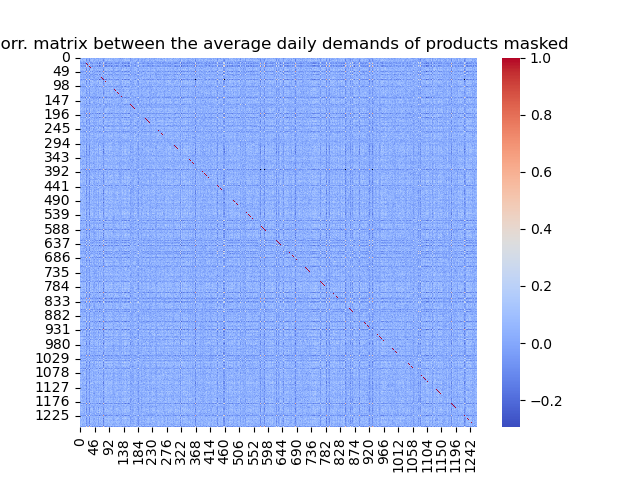
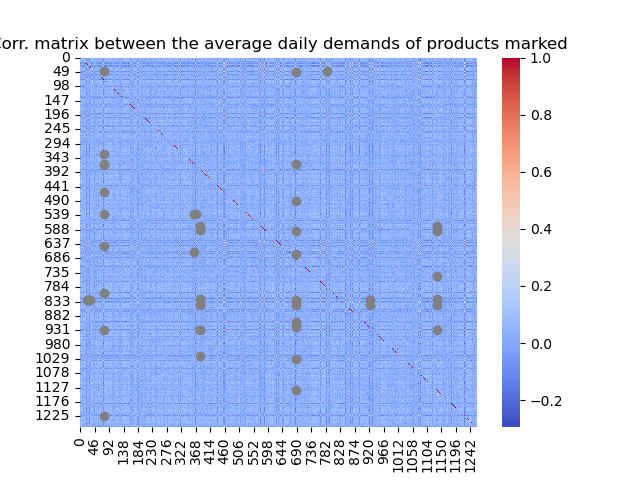
last fix to heuristics and added comments

diff --git a/final/belsimpel.py b/final/belsimpel.py
@@ -9,6 +9,7 @@ import matplotlib.pyplot as plt
 import seaborn as sns
 import datetime
 from gurobipy import Model, GRB, multidict, quicksum
+import math
 
 db = Db()
 graphs = Graphs()
@@ -16,7 +17,9 @@ index_name = "belsimpel"
 document_file_path = os.path.join(sys.path[0], "data_dapom.csv")
 buffer_size = 5000
 
+# connect to elastic
 es = db.connect()
+# import the data from the .csv file in needed
 db.create_index_and_documents(es, index_name, document_file_path, buffer_size)
 
 file_sizes = os.path.join(sys.path[0], "data_dapom_sizes.csv")
@@ -57,6 +60,7 @@ total_days = day_count["aggregations"]["unique_days_count"]["value"]
 # step 1.14
 daily_demand_per_product = np.zeros((len(df_products) + 1, total_days))
 
+# compute the daily demand per product 
 def compute_daily_demand_on_product_id(index, product_id):
 
     def add_daily_demand_per_product(product_id, day, amount_sold):
@@ -98,7 +102,6 @@ def compute_daily_demand_on_product_id(index, product_id):
     # 1.14: add the key (day) and doc_count (sold) to a destinct for the correlation matrix
     [add_daily_demand_per_product(product_id, day, amount_sold) for day, amount_sold in df_demand_per_product_per_day[["key","doc_count"]].to_numpy(dtype=int)]
 
-
 start_time = datetime.datetime.now()
 print("Compute basic stats of the daily demand for each of the", len(df_products), "unique products sold over", total_days, "days")
 print("Starting at", start_time)
@@ -106,14 +109,14 @@ print("please wait... I am computing")
 # use list comprension with an for faster iteration source: https://stackoverflow.com/questions/16476924/how-to-iterate-over-rows-in-a-dataframe-in-pandas 
 [compute_daily_demand_on_product_id(index, product_id) for index, product_id in zip(df_products.index, df_products["product_id"])]
 
+# compute the margins, product volume and average daily profit
 df_products["profit_margin"] = df_margins["margin"]
 df_products["product_volume_cm3"] = df_sizes["length"] * df_sizes["width"] * df_sizes["height"]
 df_products["average_daily_profit"] = df_products["average_daily_demand"] * df_products["profit_margin"]
 
+# create the error bar
 print("Plotting daily demand")
-
 df_error_bar = df_products[["product_id", "average_daily_demand", "std_average_daily_demand"]].sort_values(by="average_daily_demand", ascending=False)
-
 graphs.plot_error_bar(
     df_error_bar["product_id"], 
     df_error_bar["average_daily_demand"], 
@@ -125,7 +128,7 @@ graphs.plot_error_bar(
     "#B45C1F"
 )
 
-# TODO: set three classes of products based on the average daily profit (is this correct?)
+# plot the histogram of daily profits
 bins = np.histogram_bin_edges(df_products["average_daily_profit"], bins='auto') #Get de proper amount of bins https://numpy.org/doc/stable/reference/generated/numpy.histogram_bin_edges.html
 graphs.plot_hist(
     x_array=df_products["average_daily_profit"],
@@ -136,6 +139,7 @@ graphs.plot_hist(
     bins=bins
 )
 
+# plot the histogram of product volumes
 bins = np.histogram_bin_edges(df_products["product_volume_cm3"], bins="auto")
 graphs.plot_hist(
     x_array = df_products["product_volume_cm3"], 
@@ -165,10 +169,15 @@ of the product classes so that they are visible.
 # https://stackoverflow.com/questions/38936854/categorize-data-in-a-column-in-dataframe 
 # https://pandas.pydata.org/docs/reference/api/pandas.qcut.html
 print("Create product classes and plots")
+# cut the dataframe based on low to high average daily profit percentages (0%-50%, 50%-80%, 80%-100%)
 df_products["product_class"] = pd.qcut(df_products["average_daily_profit"], [0, .50, .80, 1.], labels=["50%", "80%", "100%"])
 df_low = df_products[df_products["product_class"].str.contains("50%")]
 df_medium = df_products[df_products["product_class"].str.contains("80%")]
 df_high = df_products[df_products["product_class"].str.contains("100%")]
+
+print("Amount of products in class 50%", len(df_low))
+print("Amount of products in class 30%", len(df_medium))
+print("Amount of products in class 20%", len(df_high))
 
 product_classes = ["last 50%", 'mid 30%', 'top 20%']
 dfs_product_classes = [df_low, df_medium, df_high]
@@ -194,23 +203,10 @@ boundary_avg_d_profits = [
     df_high["average_daily_profit"].max()
 ]
 
-# colors_based_avg_profit = ["#B45C1F" if avg in boundary_products else "#1F77B4" for avg in df_products_sorted_on_profit_desc["average_daily_profit"].to_list()]
-# boundary_products = df_products_sorted_on_profit_desc.loc[df_products_sorted_on_profit_desc["average_daily_profit"].isin(boundary_avg_d_profits)]["product_id"].to_list()
-
 x = np.arange(1, len(df_products_sorted_on_profit_desc) + 1) 
 y = df_products_sorted_on_profit_desc["average_daily_profit"]
 cmap = ["red" if avg in boundary_avg_d_profits else "#17becf" for avg in y]
-
 barlist = plt.bar(x, y, color=cmap, edgecolor=cmap, width=1.5)
-
-# for bp in boundary_products:
-#     #source: https://stackoverflow.com/questions/18973404/setting-different-bar-color-in-matplotlib-python
-#     # barlist[bp].set_capstyle("round")
-#     # barlist[bp].set_label("Product class boundaries")
-#     # barlist[bp].set_color("red")
-#     # barlist[bp].set_edgecolor("red")
-#     barlist[bp].set_alpha(1) 
-
 plt.xlabel("Products")
 plt.ylabel("Profits")
 plt.title("Average daily profits of each product")
@@ -239,16 +235,17 @@ df_stock = df_products[["product_id", "average_daily_demand", "std_average_daily
 df_stock = df_stock.assign(avg_daily_demand_repln_intv=replenishment_interval * df_stock["average_daily_demand"])
 df_stock = df_stock.assign(avg_std_daily_demand_repln_intv=np.sqrt(replenishment_interval * df_stock["std_average_daily_demand"]))
 
+# compute the base stock per product class 
 def compute_base_stock(index):
     product_class = df_stock.at[index, "product_class"]
     avg_daily_demand_repln_intv = df_stock.at[index, "avg_daily_demand_repln_intv"]
     avg_std_daily_demand_repln_intv = df_stock.at[index, "avg_std_daily_demand_repln_intv"]
     if product_class == "50%":
-        df_stock.at[index, "base_stock"] = avg_daily_demand_repln_intv + (low_50_z_score * avg_std_daily_demand_repln_intv)
+        df_stock.at[index, "base_stock"] = avg_daily_demand_repln_intv + (low_50_z_score * math.sqrt(avg_std_daily_demand_repln_intv))
     elif product_class == "80%":
-        df_stock.at[index, "base_stock"] = avg_daily_demand_repln_intv + (mid_30_z_score * avg_std_daily_demand_repln_intv)
+        df_stock.at[index, "base_stock"] = avg_daily_demand_repln_intv + (mid_30_z_score * math.sqrt(avg_std_daily_demand_repln_intv))
     elif product_class == "100%":
-        df_stock.at[index, "base_stock"] = avg_daily_demand_repln_intv + (top_20_z_score * avg_std_daily_demand_repln_intv)
+        df_stock.at[index, "base_stock"] = avg_daily_demand_repln_intv + (top_20_z_score * math.sqrt(avg_std_daily_demand_repln_intv))
 
 [compute_base_stock(index) for index in df_stock.index]
 
@@ -257,7 +254,6 @@ df_stock = df_stock.assign(pickup_boxes=np.ceil((df_stock["base_stock"] * df_sto
 
 bins = np.histogram_bin_edges(df_stock["pickup_boxes"], bins="auto")
 graphs.plot_hist(x_array=df_stock["pickup_boxes"], xlabel="Number of pickup boxes", ylabel="Amount of products", plot_title="Number of pick-up boxes required for each product", image_title="number_of_pickup_boxes", bins=bins)
-
 
 """
 Identify the product couples with highly correlated demands. 
@@ -288,6 +284,7 @@ plt.close()
 product_couples = []
 totalnr_of_highly_corr = 0
 #source: https://stackoverflow.com/questions/60162118/how-to-get-nth-max-correlation-coefficient-and-its-index-by-using-numpy
+# create product couples based on each specific product correlation 
 def create_product_couples(index, corr):
     global totalnr_of_highly_corr
     def is_first_product_a_higher_class(first_class_percentage : str, second_class_percentage : str):
@@ -295,33 +292,39 @@ def create_product_couples(index, corr):
         second_class = int(second_class_percentage.split("%")[0])
         if first_class > second_class: return True
         else: return False
-
+    # flatten the array
     flat = np.array(corr).flatten()
-    #get all highly correlated products
+    #get all highly correlated products 
     result = np.where(flat >= 0.6)[0] #to get the the "natural" answer of numpy.where, we have to do [0] source: https://stackoverflow.com/questions/50646102/what-is-the-purpose-of-numpy-where-returning-a-tuple
+    # check if there are highly correlated products indexes that are correlated to corr of the current product
     if len(result) > 1: 
         highly_correlated_indexes = np.array(result)
         totalnr_of_highly_corr = totalnr_of_highly_corr + len(highly_correlated_indexes)
-        highly_correlated_indexes = highly_correlated_indexes[highly_correlated_indexes != index] #This removes the product index that is correlated to itself (the perfect 1.0 index)
-        df_first_product = df_products.loc[df_products.index == index,:] 
+        highly_correlated_indexes = highly_correlated_indexes[highly_correlated_indexes != index] # This removes the product index that is correlated to itself (the perfect 1.0 index)
+        df_first_product = df_products.loc[df_products.index == index,:] # find the first product in df_products
         for correlated_index in highly_correlated_indexes: 
-            df_second_product = df_products.loc[df_products.index == correlated_index,:] 
+            df_second_product = df_products.loc[df_products.index == correlated_index,:] # find its pair in df_products
+            # if df_first_product is of an higher class append the product ids of itself and its pair. 
             if is_first_product_a_higher_class(df_first_product["product_class"].values[0], df_second_product["product_class"].values[0]):
-                corr_matrix[index, correlated_index] = np.nan
                 product_couples.append((df_first_product["product_id"].values[0], df_second_product["product_id"].values[0]))
 
+# loop over the correlation matrix and per iteration execute the create_product_couples() function  
 [create_product_couples(index, corr) for index, corr in enumerate(corr_matrix)]
 print("Found out of the", totalnr_of_highly_corr, "highly correlated products", len(product_couples), "product couples") 
 print(product_couples)
-print("Replot the correlation matrix masking the product couples")
+print("Replot the correlation matrix marking the product couples")
+
+# Replot the correlation matrix, but now with marked product pairs
 cmap = sns.color_palette("coolwarm", as_cmap=True)
-g = sns.heatmap(corr_matrix, cmap=cmap, cbar=True)
-g.set_facecolor('xkcd:black')
-plt.title("Corr. matrix between the average daily demands of products masked")
+sns.heatmap(corr_matrix, cmap=cmap, cbar=True)
+for couple in product_couples:
+    plt.scatter(x=couple[0], y=couple[1], color="grey")
+plt.title("Corr. matrix between the average daily demands of products marked")
 plt.savefig(os.path.join(sys.path[0], "plots", "corr_matrix_avg_daily_demand_masked.png"))
 plt.close()
 
 """
+Step 2 Optimization
 1. For  all methods,  the most  critical  parameter  will  be  the  average  daily  profit  loss  per  product—
 which will be realized in case the product cannot be stored in the current warehouse. Compute 
 this value for each product.  
@@ -338,8 +341,10 @@ average daily profit losses on a small table.
 print("Looking for the optimal product warehouse allocation, please wait...")
 pickup_boxes_theshold = 960
 current_pickup_boxes_in_storage = 0
-current_product_couples = product_couples.copy()
+# copy the list in order to not change the current product couples list
+current_product_couples = product_couples.copy() 
 
+# compute the profit loss per product based on product class
 def compute_profit_loss(index):
     product_class = df_products.at[index, "product_class"]
     average_daily_profit = df_products.at[index, "average_daily_profit"]
@@ -355,12 +360,15 @@ def compute_profit_loss(index):
 def get_product_couples_by_product_id(product_id : int):
     return [product_couples_by_id for product_couples_by_id in product_couples if product_couples_by_id[0] == product_id or product_couples_by_id[1] == product_id]
 
+# get the other couples id by 
+# example: if product_id = 1, product_couple=(1,2) returns couple_id = 2
 def get_other_couple_id(product_id : int, product_couple : tuple):
     index_current_couple = product_couple.index(product_id)
     if index_current_couple == 0:
         return product_couple[1]
     return product_couple[0]
 
+# check if there is enough storage in the current warehouse 
 def enough_storage(threshold, current_storage, product_pickup_boxes):
     if threshold - current_storage >= product_pickup_boxes:
         return True
@@ -369,30 +377,34 @@ def enough_storage(threshold, current_storage, product_pickup_boxes):
 df_products["pickup_boxes"] = df_stock["pickup_boxes"]
 [compute_profit_loss(index) for index in df_products.index]
 
-#Ranking 
+# Use pandas.rank to create an ranking based on an column 
 # https://vitalflux.com/ranking-algorithms-types-concepts-examples/#:~:text=A%20ranking%20algorithm%20is%20a,dataset%20according%20to%20some%20criterion.
 # https://dataindependent.com/pandas/pandas-rank-rank-your-data-pd-df-rank/
+# create an ratio by dividing the average daily profit loss column by pickup_boxes column, and convert the new column to absolute values 
 df_products["ratio"] = np.abs(df_products["average_daily_profit_loss"] / df_products["pickup_boxes"])
+# create two columns using pandas.rank, where the ranking is based on the average daily profit loss and ratio
 df_products["rank_by_profit_loss"] = df_products["average_daily_profit_loss"].rank(ascending=True, method="first") # ranking based on the highest profit loss (so this is the lowest negative number)
 df_products["rank_by_ratio"] = df_products["ratio"].rank(ascending=False, method="first")
 
+# sort the ranks in df_products into two new dataframes
 df_ranked_by_profit_loss = df_products.sort_values(by="rank_by_profit_loss")
 df_ranked_by_ratio = df_products.sort_values(by="rank_by_ratio")
 
+# initialize the warehouses for the first heuristic of ranking by profit loss
 df_current_warehouse = pd.DataFrame(columns=df_ranked_by_profit_loss.columns)
 df_rental_warehouse = pd.DataFrame(columns=df_ranked_by_profit_loss.columns)
 df_scenarios = pd.DataFrame()
 
 def optimize_by_rank(index):
-    global pickup_boxes_theshold
-    global current_pickup_boxes_in_storage
-    row = df_ranked_by_profit_loss.loc[index, :]
+    global pickup_boxes_theshold # == 960
+    global current_pickup_boxes_in_storage # == 0 
+    row = df_ranked_by_profit_loss.loc[index, :] # the row based on index starting with the first product that has rank 1
     product_id = row["product_id"]
-    # check product already stored in one of warehouses
+    # check product already stored in one of warehouses, checking both product_id columns per df
     if product_id in df_current_warehouse["product_id"].values or product_id in df_rental_warehouse["product_id"].values:
         return 
     # get product couples by current product_id
-    couples_by_id = get_product_couples_by_product_id(product_id) # get all the couples
+    couples_by_id = get_product_couples_by_product_id(product_id) 
     # if current warehouse storage is full, store in the rental warehouse
     if pickup_boxes_theshold == current_pickup_boxes_in_storage:
         df_rental_warehouse.loc[len(df_rental_warehouse), :] = row
@@ -402,59 +414,82 @@ def optimize_by_rank(index):
                 df_rental_warehouse.loc[len(df_rental_warehouse), :] = df_ranked_by_profit_loss[df_ranked_by_profit_loss["product_id"] == other_couple_id].squeeze()
                 current_product_couples.remove(couple) # Now the couple has been allocated remove them from the current couples list
     else: 
+        allocated_in_the_warehouse_indexes = [] # used to keep track of current stored products of this iteratation
+        allocated_pickup_boxes_for_product = 0 # used to keep track current pickup boxes used of this iteratation
+        # if not enough storage store the product in the rental warehouse and return the function
         if not enough_storage(pickup_boxes_theshold, current_pickup_boxes_in_storage, row["pickup_boxes"]):
-            print("Not enough storage for product", row["product_id"], "need", row["pickup_boxes"], "pickup boxes, but only", pickup_boxes_theshold - current_pickup_boxes_in_storage, "pickup boxes are left")
+            df_rental_warehouse.loc[len(df_rental_warehouse), :] = row
             return
-        df_current_warehouse.loc[len(df_current_warehouse)] = row
+        # get the next index of the current warehouse
+        next_free_index_in_warehouse = len(df_current_warehouse) 
+        # allocated the product to the current warehouse
+        df_current_warehouse.loc[next_free_index_in_warehouse] = row 
+        # add the index of the current allocated row to the list to keep track 
+        allocated_in_the_warehouse_indexes.append(next_free_index_in_warehouse)
+        # increment the current storage and tracking by 1
         current_pickup_boxes_in_storage += row["pickup_boxes"]
+        allocated_pickup_boxes_for_product += row["pickup_boxes"]
+        # check if there are product couples
         if len(couples_by_id) > 0:
             for couple in couples_by_id:
+                # get the other product by current iteratation product_id
                 other_couple_id = get_other_couple_id(product_id, couple)
+                # get the couple
                 couple_row = df_ranked_by_profit_loss.loc[df_ranked_by_profit_loss["product_id"] == other_couple_id]
                 if not enough_storage(pickup_boxes_theshold, current_pickup_boxes_in_storage, couple_row["pickup_boxes"].values[0]):
-                    print("Not enough storage for product", couple_row["product_id"].values[0], "need", couple_row["pickup_boxes"].values[0], "pickup boxes, but only", pickup_boxes_theshold - current_pickup_boxes_in_storage, "pickup boxes are left")
-                    return
-                df_current_warehouse.loc[len(df_current_warehouse), :] = couple_row.squeeze()
+                    print("Not enough storage for product", couple_row["product_id"].values[0], "coupled to", row["product_id"], "cancel allocation!")
+                    # drop all looped through couples including the current row from the current warehouse
+                    df_current_warehouse.drop(allocated_in_the_warehouse_indexes)
+                    # free up allocated storage space again 
+                    current_pickup_boxes_in_storage -= allocated_pickup_boxes_for_product
+                    return # exit the function 
+                next_free_index_in_warehouse = len(df_current_warehouse)
+                df_current_warehouse.loc[next_free_index_in_warehouse, :] = couple_row.squeeze()
+                allocated_in_the_warehouse_indexes.append(next_free_index_in_warehouse)
                 current_product_couples.remove(couple)
                 current_pickup_boxes_in_storage += couple_row["pickup_boxes"].values[0]
+
 # 2.2 heuristic by highest profit loss
 print("Run ranking heuristic by highest profit loss")
 [optimize_by_rank(index) for index in df_ranked_by_profit_loss.index]
-df_scenarios.loc[0, "avg"] = df_rental_warehouse["average_daily_profit_loss"].sum()
+print(len(df_current_warehouse), "products are allocated to the current warehouse") 
+print(len(df_rental_warehouse), "products are allocated to the rental warehouse") 
+df_scenarios.loc[0, "avg"] = df_rental_warehouse["average_daily_profit_loss"].sum() # add avg result
 
-#Reinitialize variables to run the ratio scenario
+# Reinitialize variables to run the ratio scenario next
 df_current_warehouse = pd.DataFrame(columns=df_ranked_by_ratio.columns)
 df_rental_warehouse = pd.DataFrame(columns=df_ranked_by_ratio.columns)
-
 current_pickup_boxes_in_storage = 0
 current_product_couples = product_couples.copy()
 
-# 2.3 heuristic by highest profit loss
+# 2.3 heuristic by highest profit loss, running the same method in order to 
 print("Run ranking heuristic by ratio of the average daily profit loss / number of pick-up boxes")
 [optimize_by_rank(index) for index in df_ranked_by_ratio.index]
-df_scenarios.loc[0, "ratio"] = df_rental_warehouse["average_daily_profit_loss"].sum()
+print(len(df_current_warehouse), "products are allocated to the current warehouse") 
+print(len(df_rental_warehouse), "products are allocated to the rental warehouse") 
+df_scenarios.loc[0, "ratio"] = df_rental_warehouse["average_daily_profit_loss"].sum() # add ratio result
 
 # 2.4 solving the integer problem
 # sources: 
 # https://www.youtube.com/watch?v=0AeGqnM04yc 
 # https://www.youtube.com/watch?v=t6_Dpq7L3YQ
 # https://www.gurobi.com/documentation/9.5/refman/index.html
-
 print("Solve the 0-1 Knapsack integer problem")
 w = df_products["pickup_boxes"].to_list() # weight of item / corresponding number of pickup boxes
-v = df_products["average_daily_profit_loss"].to_list() # value of item / or loss in this case
+v = df_products["average_daily_profit_loss"].to_list() # value of item / or profit loss in this case
 C = pickup_boxes_theshold # max allocation 960 pickup boxes
 N = len(df_products) # number of products
 
 knapsack_model = Model("knapsack")
 
-x = knapsack_model.addVars(N, vtype=GRB.BINARY, name="product")
+x = knapsack_model.addVars(N, vtype=GRB.BINARY, name="product") # add binary vars 0/1 
 knapsack_model.update()
 
 objective = quicksum(v[i]*x[i] for i in range(N))
-knapsack_model.setObjective(objective, GRB.MINIMIZE) # minimize the profit loss
+knapsack_model.setObjective(objective, GRB.MINIMIZE) # goal: minimize the profit loss
 
-knapsack_model.addConstr(quicksum(w[i]*x[i] for i in range(N)) == C, "weight")
+#The weight of knapsack == 980 (max allocation to the warehouse) should not be exceeded
+knapsack_model.addConstr(quicksum(w[i]*x[i] for i in range(N)) <= C, "weight") 
 
 # add product couple constraints
 # https://support.gurobi.com/hc/en-us/community/posts/4407939434385-Multi-Knapsack-Problem-with-conditional-constraint
@@ -466,12 +501,16 @@ for couple in product_couples:
     product_couple_dict[coupled_vars] = 1
 
 rel, val = multidict(product_couple_dict)
-
+# product couple represtation: (x1, x2) = 1
+# the sum of right side of the tuple and the left de side of the tuple must be equal
 knapsack_model.addConstrs((x.sum(i, "*") <= x.sum(i2, "*") for i, i2 in rel), name="product_couple")
 
 knapsack_model.optimize()
 
-not_allocated = [i for i in range(N) if x[i].X < 0.5]   
+allocated = [i for i in range(N) if x[i].X > 0.5] 
+not_allocated = [i for i in range(N) if x[i].X < 0.5]  
+print(len(allocated), "products are allocated to the current warehouse") 
+print(len(not_allocated), "products are allocated to the rental warehouse") 
 df_scenarios.loc[0, "knapsack"] = df_products.loc[not_allocated, "average_daily_profit_loss"].sum()
 
 fig, ax = plt.subplots()
@@ -479,16 +518,9 @@ sns.barplot(df_scenarios)
 ax.bar_label(ax.containers[-1], padding=0.5, fmt='%.2f,-')
 ax.set_title("Allocation heuristics overview")
 ax.set_xlabel("Heuristic results")
+ax.set_ylabel("Profit losses")
 fig.savefig(os.path.join(sys.path[0], "plots", "overview_heuristics.png"))
 plt.close()
 
 total_time = datetime.datetime.now() - start_time
 print("Computing is finished and it took", total_time)
-
-
-
-
-
-
-
-
